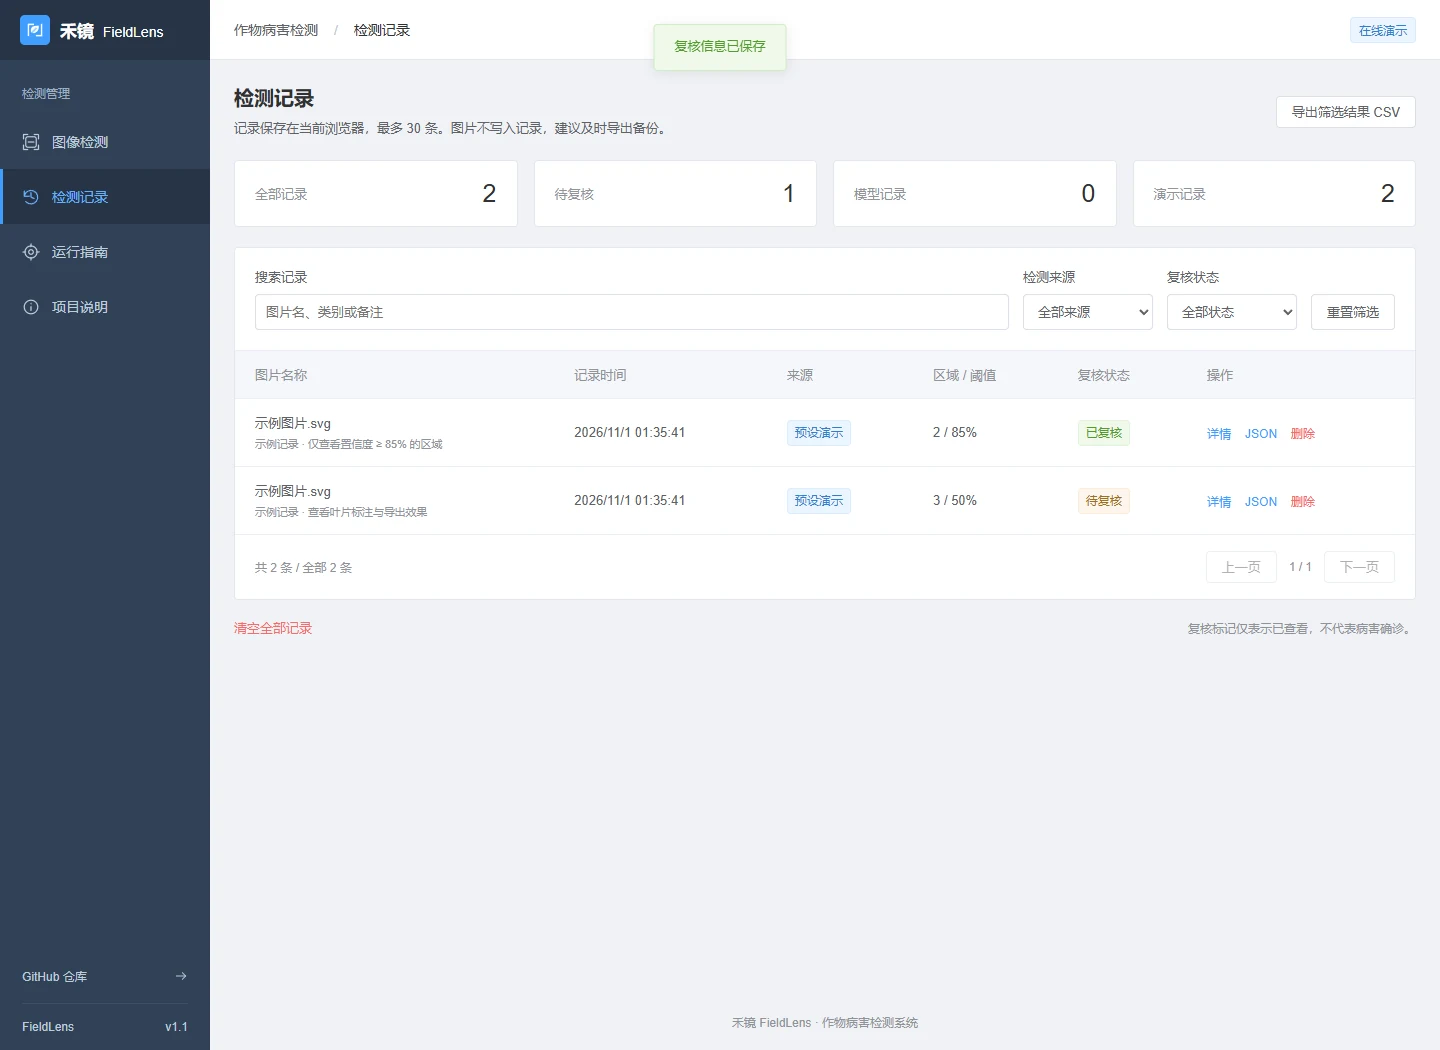
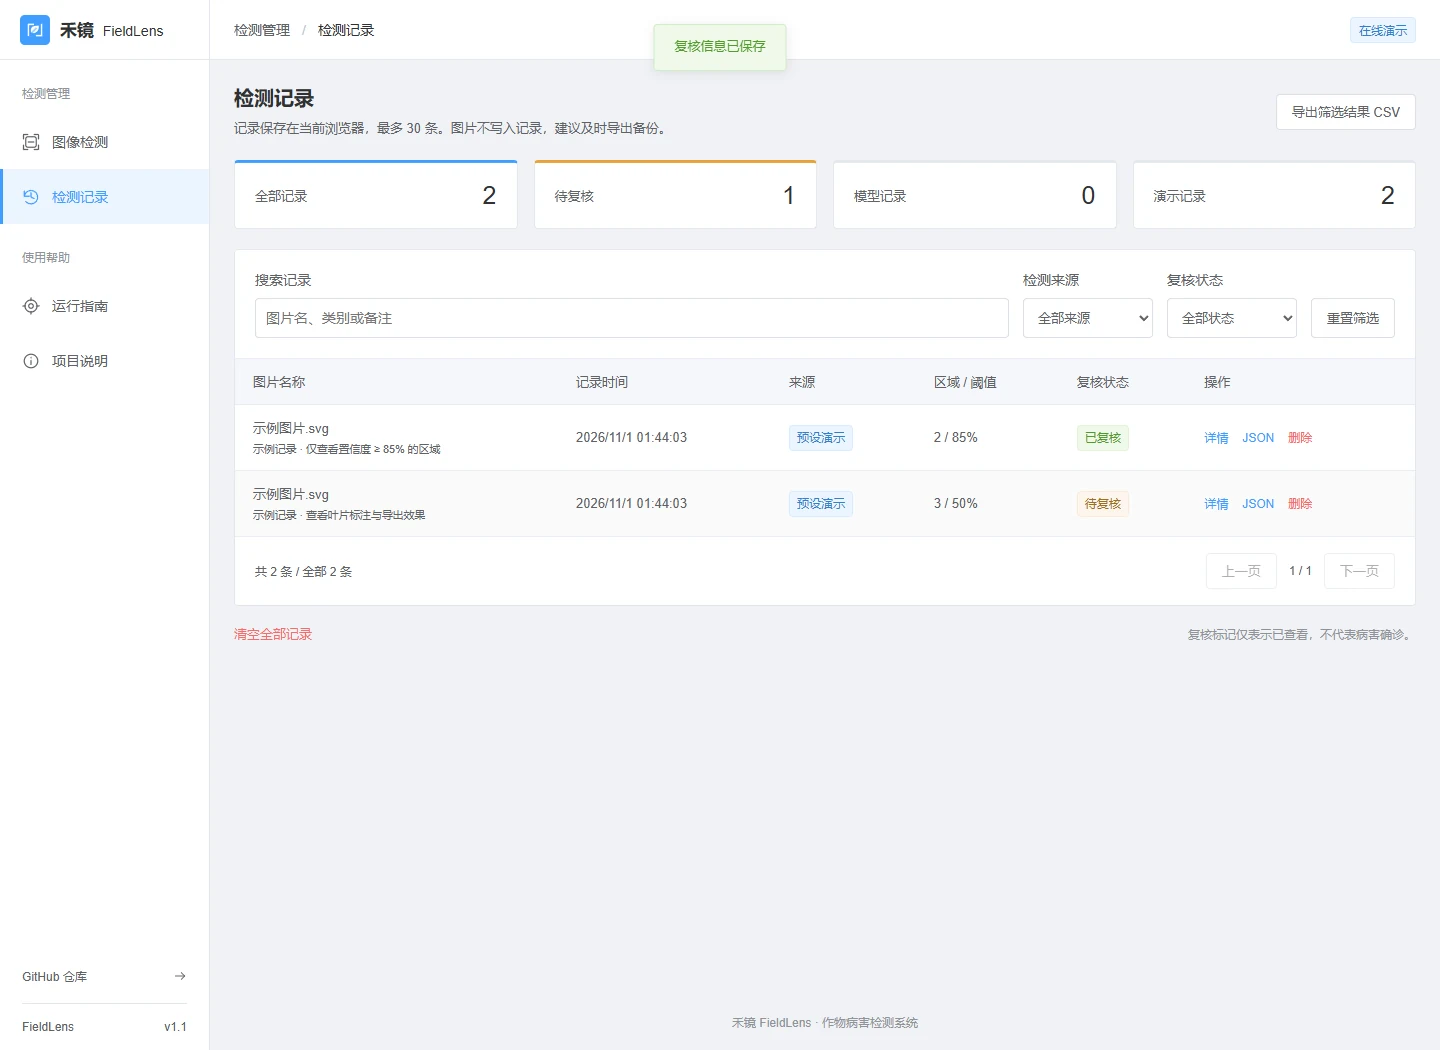
Refresh FieldLens showcase with Element-style interface and responsive screenshots

diff --git a/index.html b/index.html
@@ -147,7 +147,7 @@ train.py  →  test.py</code></pre><p class="preview-foot" data-en="Illustrative
             <div class="project-body"><span class="case-index" aria-hidden="true">03</span><div class="project-meta"><span data-en="LOW-CODE ENGINEERING EXAMPLE" data-zh="低代码工程示例">LOW-CODE ENGINEERING EXAMPLE</span><span>JavaScript / JSON</span></div><p class="project-evidence-label" data-en="INTERACTIVE PROTOTYPE · SYNTHETIC DATA" data-zh="交互原型 · 合成数据">INTERACTIVE PROTOTYPE · SYNTHETIC DATA</p><h3 data-en="Schema-driven Form Studio" data-zh="配置驱动表单工作台">Schema-driven Form Studio</h3><p data-en="A public form studio derived from the reusable idea of field metadata plus a renderer: add, remove and reorder fields, inspect JSON and validate the same schema that builds the controls." data-zh="一个公开表单工作台，整理“字段元数据 + 渲染器”的可复用思路：新增、删除和排序字段，查看 JSON，并校验生成控件的同一份配置。">A public form studio derived from the reusable idea of field metadata plus a renderer: add, remove and reorder fields, inspect JSON and validate the same schema that builds the controls.</p><div class="tags"><span>Schema</span><span>Dynamic forms</span><span>Validation</span><span>Vue patterns</span></div><p class="source-note" data-en="Synthetic learning example inspired by local Vue form patterns. Original business configuration and data are excluded; complex permissions still need server checks." data-zh="受本地 Vue 表单思路启发的合成学习示例；不公开原始业务配置和数据，复杂权限仍需服务端检查。">Synthetic learning example inspired by local Vue form patterns. Original business configuration and data are excluded; complex permissions still need server checks.</p><div class="project-links"><a href="demos/low-code-form/" data-en="Online form studio ↗" data-zh="在线表单工作台 ↗">Online form studio ↗</a><a href="demos/low-code-form/schema.json" data-en="Schema ↗" data-zh="Schema 配置 ↗">Schema ↗</a><a href="https://github.com/GuHang2011/GuHang2011.github.io/blob/main/demos/low-code-form/README.md" data-en="Design notes ↗" data-zh="设计说明 ↗">Design notes ↗</a></div></div>
           </article>
           <article class="project-item" data-category="engineering" id="project-fieldlens" data-featured="true" data-case-index="04">
-            <figure class="project-media"><button type="button" data-preview="assets/fieldlens/workspace.webp" aria-label="Preview FieldLens crop inspection" data-en-label="Preview FieldLens crop inspection" data-zh-label="查看禾镜检测工作台截图"><img src="assets/fieldlens/workspace.webp" alt="FieldLens image inspection with zoom, detection regions and report exports" data-en-alt="FieldLens image inspection with zoom, detection regions and report exports" data-zh-alt="禾镜图像检测工作台：图片缩放、检测区域和报告导出" loading="lazy" width="1440" height="1309" decoding="async"></button><figcaption  data-en="Browser screenshot · Preset demo annotations" data-zh="浏览器实拍 · 预设演示标注">Browser screenshot · Preset demo annotations</figcaption></figure><div class="project-body"><span class="case-index" aria-hidden="true">04</span><div class="project-meta"><span  data-en="COMPUTER VISION / INSPECTION TOOLS" data-zh="计算机视觉 / 检测工具">COMPUTER VISION / INSPECTION TOOLS</span><span>2026.11</span></div><p class="project-evidence-label" data-en="LIVE DEMO · OPTIONAL LOCAL YOLO" data-zh="在线演示 · 可接入本地 YOLO">LIVE DEMO · OPTIONAL LOCAL YOLO</p><h3  data-en="FieldLens · Crop Image Inspection" data-zh="禾镜 FieldLens · 作物图像检测">FieldLens · Crop Image Inspection</h3><p  data-en="An Element-style inspection workspace: zoom into images, filter detection regions, export annotated PNG/CSV/JSON reports, and search records with review notes." data-zh="Element 风格的检测工作台：放大图片、筛选检测区域、导出标注 PNG／CSV／JSON，并按来源与复核状态检索记录。">An Element-style inspection workspace: zoom into images, filter detection regions, export annotated PNG/CSV/JSON reports, and search records with review notes.</p><div class="tags"><span>JavaScript</span><span>YOLO</span><span>Flask</span><span>Canvas</span><span>Playwright</span></div><p  data-en="Built around a user review: clarify online limits before detection, prevent duplicate saves, add individual record deletion and keep demo provenance in exports." data-zh="根据用户操作逐项改进：检测前说明在线能力，避免重复保存，支持单条删除，并在导出文件中保留演示来源标识。">Built around a user review: clarify online limits before detection, prevent duplicate saves, add individual record deletion and keep demo provenance in exports.</p><p class="source-note" data-en="The public page uses synthetic images and preset annotations. Real inference requires a locally supplied authorized model; crop-model accuracy has not been measured." data-zh="公开页面使用合成图片与预设标注；真实推理需要本地配置授权模型，尚未测量作物模型准确率。">The public page uses synthetic images and preset annotations. Real inference requires a locally supplied authorized model; crop-model accuracy has not been measured.</p><div class="project-links"><a href="/fieldlens/" data-en="Open workspace ↗" data-zh="打开检测工作台 ↗">Open workspace ↗</a><a href="cases/fieldlens/" data-en="User review &amp; fixes ↗" data-zh="用户问题与修复 ↗">User review &amp; fixes ↗</a><a href="https://github.com/GuHang2011/fieldlens" data-en="Source &amp; setup ↗" data-zh="源码与部署 ↗">Source &amp; setup ↗</a></div></div></article>
+            <figure class="project-media"><button type="button" data-preview="assets/fieldlens/workspace.webp" aria-label="Preview FieldLens crop inspection" data-en-label="Preview FieldLens crop inspection" data-zh-label="查看禾镜检测工作台截图"><img src="assets/fieldlens/workspace.webp" alt="FieldLens image inspection with zoom, detection regions and report exports" data-en-alt="FieldLens image inspection with zoom, detection regions and report exports" data-zh-alt="禾镜图像检测工作台：图片缩放、检测区域和报告导出" loading="lazy" width="1920" height="1099" decoding="async"></button><figcaption  data-en="Browser screenshot · Preset demo annotations" data-zh="浏览器实拍 · 预设演示标注">Browser screenshot · Preset demo annotations</figcaption></figure><div class="project-body"><span class="case-index" aria-hidden="true">04</span><div class="project-meta"><span  data-en="COMPUTER VISION / INSPECTION TOOLS" data-zh="计算机视觉 / 检测工具">COMPUTER VISION / INSPECTION TOOLS</span><span>2026.11</span></div><p class="project-evidence-label" data-en="LIVE DEMO · OPTIONAL LOCAL YOLO" data-zh="在线演示 · 可接入本地 YOLO">LIVE DEMO · OPTIONAL LOCAL YOLO</p><h3  data-en="FieldLens · Crop Image Inspection" data-zh="禾镜 FieldLens · 作物图像检测">FieldLens · Crop Image Inspection</h3><p  data-en="An Element-style inspection workspace: zoom into images, filter detection regions, export annotated PNG/CSV/JSON reports, and search records with review notes." data-zh="Element 风格的检测工作台：放大图片、筛选检测区域、导出标注 PNG／CSV／JSON，并按来源与复核状态检索记录。">An Element-style inspection workspace: zoom into images, filter detection regions, export annotated PNG/CSV/JSON reports, and search records with review notes.</p><div class="tags"><span>JavaScript</span><span>YOLO</span><span>Flask</span><span>Canvas</span><span>Playwright</span></div><p  data-en="Built around a user review: clarify online limits before detection, prevent duplicate saves, add individual record deletion and keep demo provenance in exports." data-zh="根据用户操作逐项改进：检测前说明在线能力，避免重复保存，支持单条删除，并在导出文件中保留演示来源标识。">Built around a user review: clarify online limits before detection, prevent duplicate saves, add individual record deletion and keep demo provenance in exports.</p><p class="source-note" data-en="The public page uses synthetic images and preset annotations. Real inference requires a locally supplied authorized model; crop-model accuracy has not been measured." data-zh="公开页面使用合成图片与预设标注；真实推理需要本地配置授权模型，尚未测量作物模型准确率。">The public page uses synthetic images and preset annotations. Real inference requires a locally supplied authorized model; crop-model accuracy has not been measured.</p><div class="project-links"><a href="/fieldlens/" data-en="Open workspace ↗" data-zh="打开检测工作台 ↗">Open workspace ↗</a><a href="cases/fieldlens/" data-en="User review &amp; fixes ↗" data-zh="用户问题与修复 ↗">User review &amp; fixes ↗</a><a href="https://github.com/GuHang2011/fieldlens" data-en="Source &amp; setup ↗" data-zh="源码与部署 ↗">Source &amp; setup ↗</a></div></div></article>
 
           <article class="project-item" data-category="engineering" id="project-ai-office">
             <figure class="project-media"><a href="https://github.com/GuHang2011/engineering-notes/blob/main/notes/personal-ai-keys.md"><img src="https://raw.githubusercontent.com/GuHang2011/engineering-notes/main/screenshots/ai-settings-desktop.png" alt="AI workspace settings with hidden personal key, endpoint controls and connection feedback" data-en-alt="AI workspace settings with hidden personal key, endpoint controls and connection feedback" data-zh-alt="AI 工作区设置：隐藏的个人密钥、服务地址配置与连接反馈" loading="lazy"></a><figcaption data-en="Local UI test fixture · Synthetic connection response" data-zh="本地界面测试夹具 · 模拟连接响应">Local UI test fixture · Synthetic connection response</figcaption></figure>

diff --git a/cases/fieldlens/index.html b/cases/fieldlens/index.html
@@ -7,7 +7,7 @@
 <h1>禾镜 FieldLens</h1><p class="lead">一个用于作物图片检测与结果复核的工作台。这次改进围绕实际操作：怎样开始、怎样看清结果、怎样导出，以及怎样找回一条记录。</p>
 <div class="actions"><a class="primary" href="/fieldlens/">打开检测工作台 ↗</a><a href="https://github.com/GuHang2011/fieldlens">GitHub 源码 ↗</a><a href="/fieldlens/#guide">本地运行指南 ↗</a></div>
 <p class="notice">公开页面是交互演示，示例图片和检测框均为预设数据。真实 YOLO 推理需要在本地配置有授权的目标检测权重；本项目没有发布模型精度或病害确诊结论。</p>
-<section class="screenshots"><h2>检测工作台</h2><figure><img src="../../assets/fieldlens/workspace.webp" width="1440" height="1309" alt="禾镜检测工作台，显示图片缩放、预设检测框与结果导出"><figcaption>浏览器实拍。示例仅用于体验检测框、阈值和导出流程。</figcaption></figure></section>
+<section class="screenshots"><h2>检测工作台</h2><figure><img src="../../assets/fieldlens/workspace.webp" width="1920" height="1099" alt="禾镜检测工作台，显示图片缩放、预设检测框与结果导出"><figcaption>浏览器实拍。示例仅用于体验检测框、阈值和导出流程。</figcaption></figure></section>
 <section><h2>从用户问题到具体修复</h2><div class="table-wrap"><table><thead><tr><th>用户会遇到的问题</th><th>改进后的操作</th></tr></thead><tbody>
 <tr><td>在线页面能直接识别自己的图片吗？</td><td>在操作前显示能力说明。在线版禁用真实检测入口，并提供 Windows、macOS / Linux 本地运行步骤。</td></tr>
 <tr><td>图片里的检测区域太小，看不清楚。</td><td>新增 50%–300% 相对缩放与适应窗口，检测框同步缩放；可隐藏框查看原图。</td></tr>
@@ -19,6 +19,6 @@
 <tr><td>选错图片或检测等太久，怎么退出？</td><td>可清除当前图片、取消等待。防止旧图片读取完成后覆盖新选择；取消后不生成成功记录。</td></tr>
 </tbody></table></div></section>
 <section class="screenshots"><h2>记录检索与人工复核</h2><figure><img src="../../assets/fieldlens/history.webp" width="1440" height="1050" loading="lazy" alt="检测记录中的搜索、来源筛选、复核状态、备注和导出入口"><figcaption>演示记录，用于展示检索与复核流程。复核状态只表示人工查看，不代表病害确诊。</figcaption></figure></section>
-<section><h2>实现与验证</h2><ul class="feature-list"><li>前端：原生 ES Modules、Vite、Canvas；参考 Element UI 的后台界面样式。</li><li>本地服务：Flask、Pillow、可选 Ultralytics YOLO。上传图片在内存中处理，不随仓库分发模型权重。</li><li>记录：浏览器本地存储，最多 30 条；导出可备份，但不跨设备同步。</li><li>验证：前端数据测试、后端接口测试和浏览器流程检查；覆盖移动端布局、导出、筛选、复核、删除与失败状态。</li><li>实际模型精度、不同设备推理速度和田间效果尚未评估。</li></ul><a href="https://github.com/GuHang2011/fieldlens/blob/main/docs/USER_REVIEW.md">查看完整问题清单与验证记录 ↗</a></section>
+<section><h2>实现与验证</h2><ul class="feature-list"><li>前端：原生 ES Modules、Vite、Canvas；对照 Element 官网色彩、导航、表格和表单规范，采用浅色分组侧栏、40px 表单、固定操作列；支持宽屏三列布局。</li><li>本地服务：Flask、Pillow、可选 Ultralytics YOLO。上传图片在内存中处理，不随仓库分发模型权重。</li><li>记录：浏览器本地存储，最多 30 条；导出可备份，但不跨设备同步。</li><li>验证：前端数据测试、后端接口测试和浏览器流程检查；覆盖 360–2560px 布局、导出、筛选、复核、删除与失败状态。</li><li>实际模型精度、不同设备推理速度和田间效果尚未评估。</li></ul><a href="https://github.com/GuHang2011/fieldlens/blob/main/docs/USER_REVIEW.md">查看完整问题清单与验证记录 ↗</a></section>
 <div class="english" lang="en"><h2>FieldLens: a user-centered inspection workflow</h2><p>Review crop images, zoom into detection regions, export annotated PNG/CSV/JSON reports, and manage inspection records with searchable notes and review status. The public demo uses synthetic artwork and preset annotations. Real YOLO inference requires an authorized local model; no crop-model accuracy claims are made.</p></div>
 </main><footer>Hang Gu · FieldLens v1.1 · <a href="../../#work">返回工程项目</a></footer></body></html>

diff --git a/fieldlens-portfolio.css b/fieldlens-portfolio.css
@@ -2,7 +2,7 @@
 .portfolio-home #project-fieldlens{grid-column:1/-1;display:grid;grid-template-columns:1.08fr 1fr}
 .portfolio-home #project-fieldlens .project-media{display:flex;flex-direction:column;justify-content:center;padding:26px;background:#eef3f8;border:0}
 .portfolio-home #project-fieldlens .project-media button{border:1px solid #dce3eb;border-radius:6px;overflow:hidden;box-shadow:0 8px 22px #182d4812}
-.portfolio-home #project-fieldlens .project-media img{aspect-ratio:1440/1309;object-fit:contain;background:#f0f2f5}
+.portfolio-home #project-fieldlens .project-media img{aspect-ratio:1920/1099;object-fit:contain;background:#f0f2f5}
 .portfolio-home #project-fieldlens .project-body{padding:30px}
 .portfolio-home #project-fieldlens figcaption{background:none;padding:12px 0 0;text-align:center;font-size:11px}
 @media(max-width:760px){.portfolio-home #project-fieldlens{grid-template-columns:1fr}.portfolio-home #project-fieldlens .project-media{padding:20px}.portfolio-home #project-fieldlens .project-body{padding:22px}}
